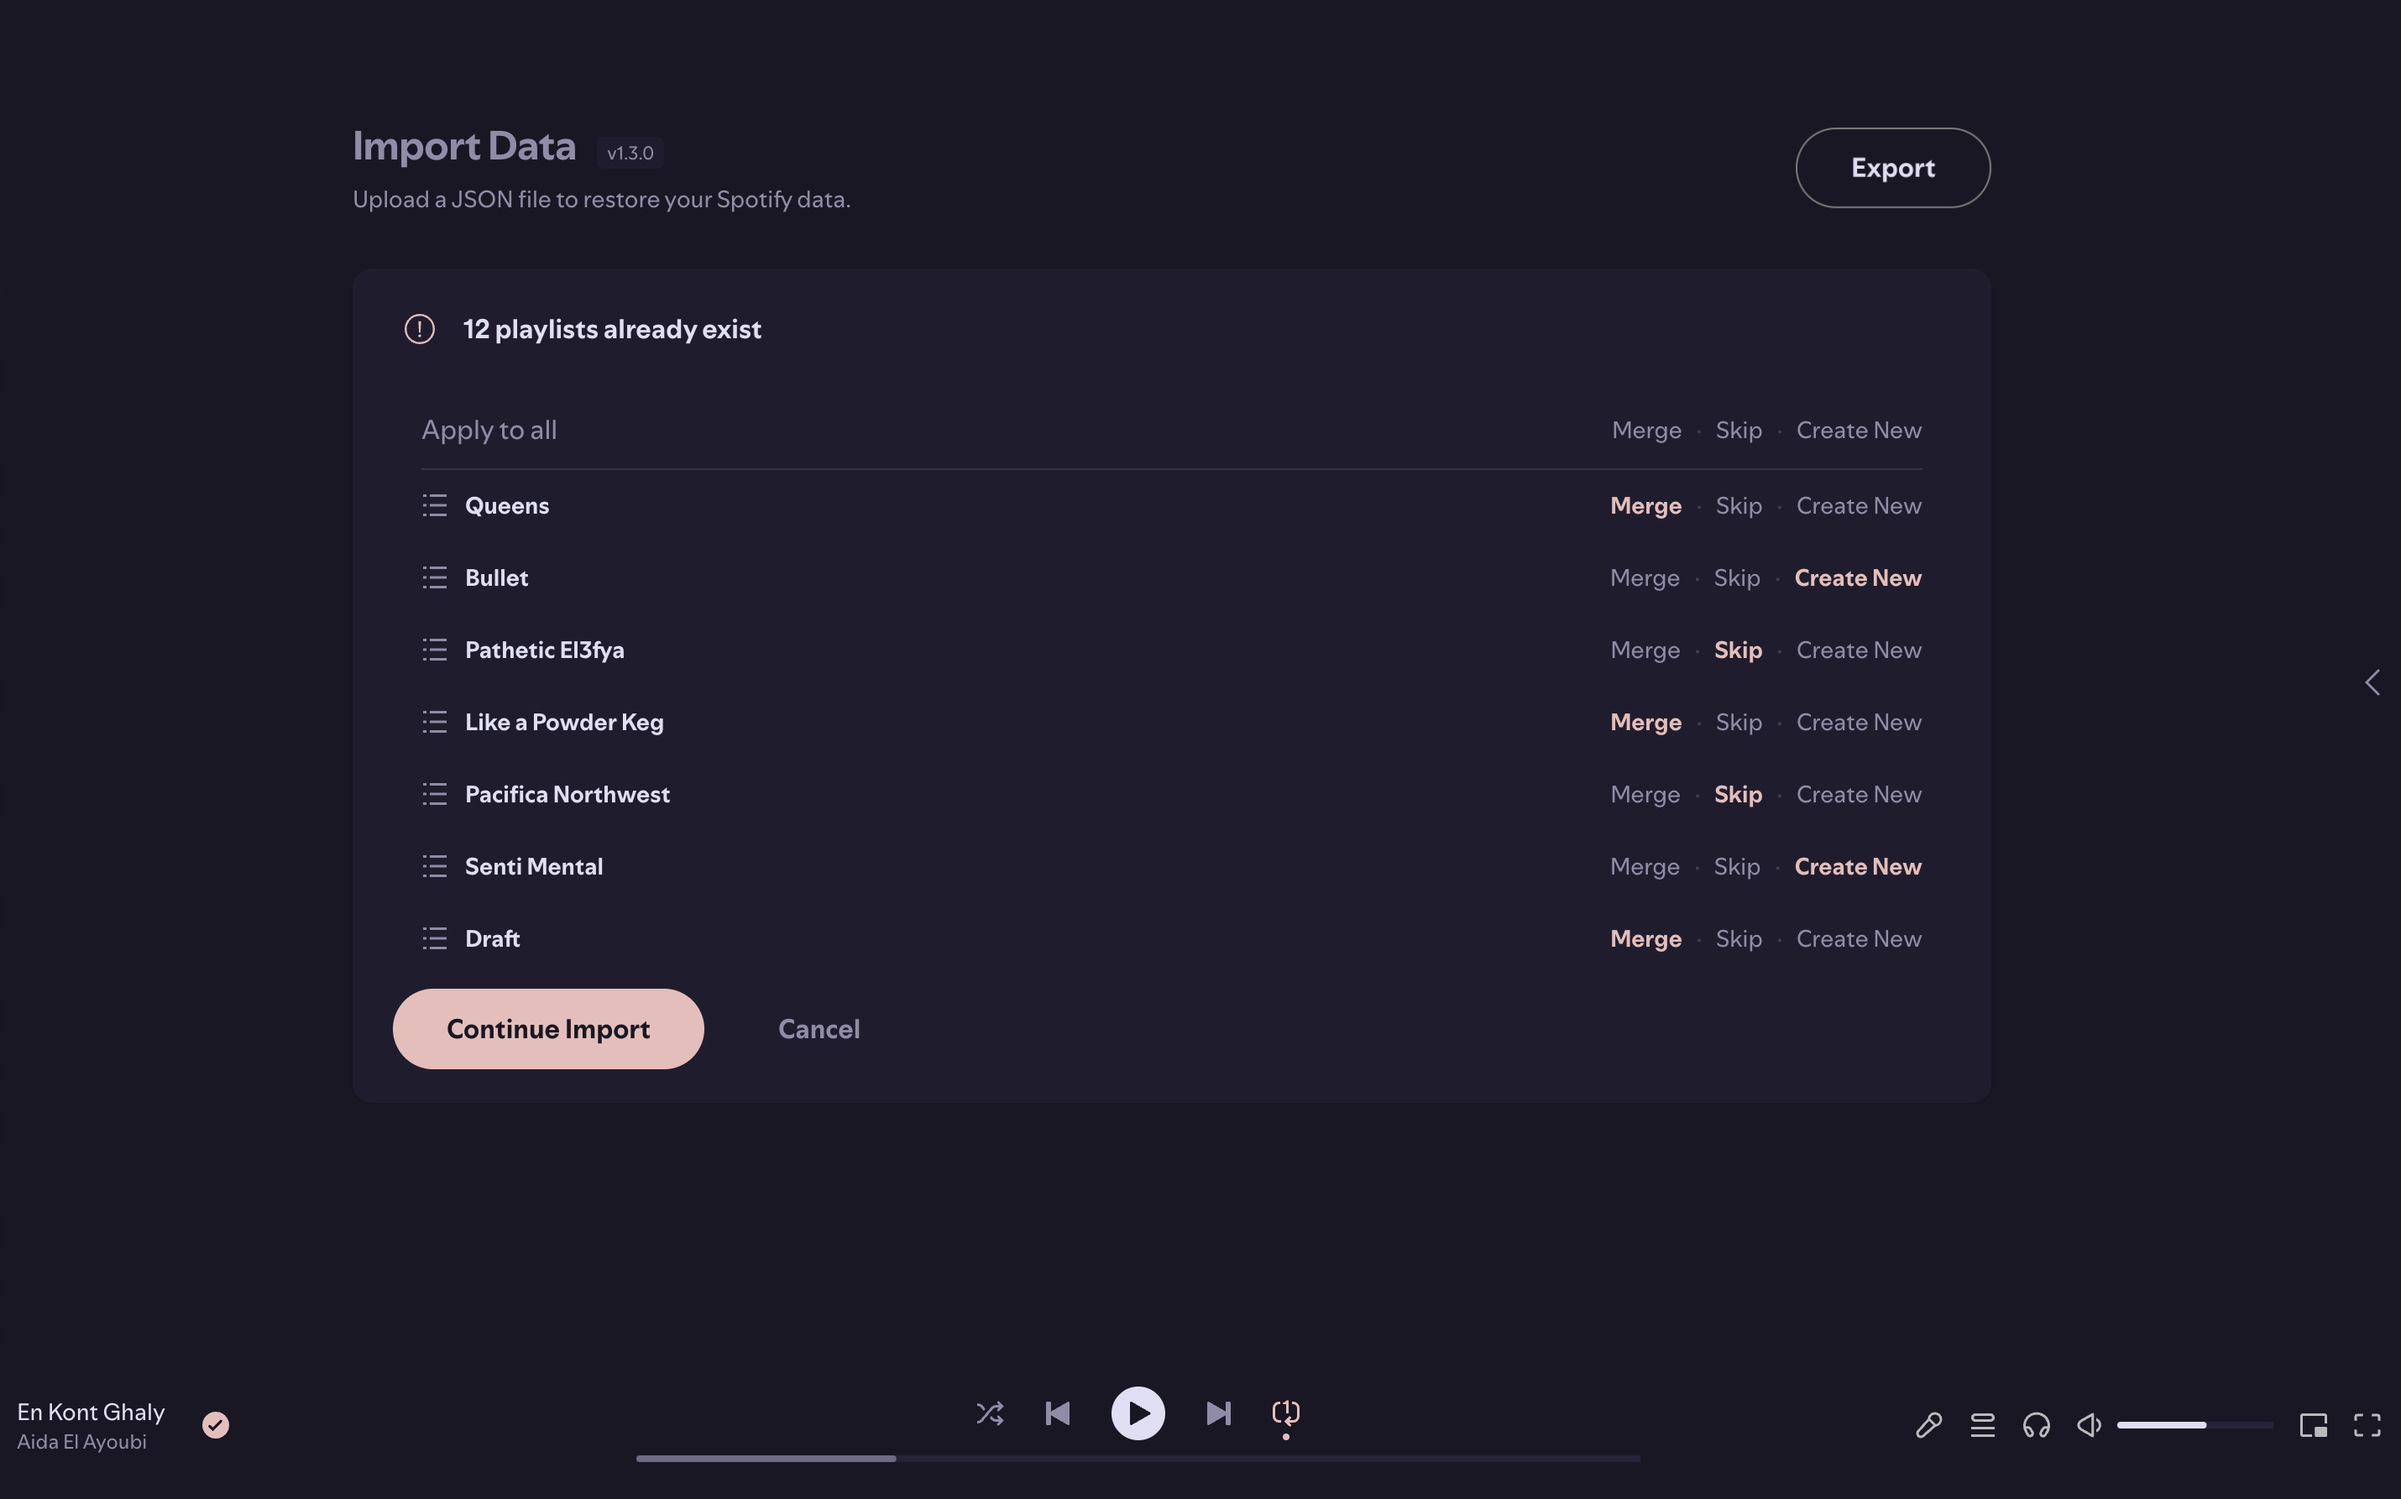
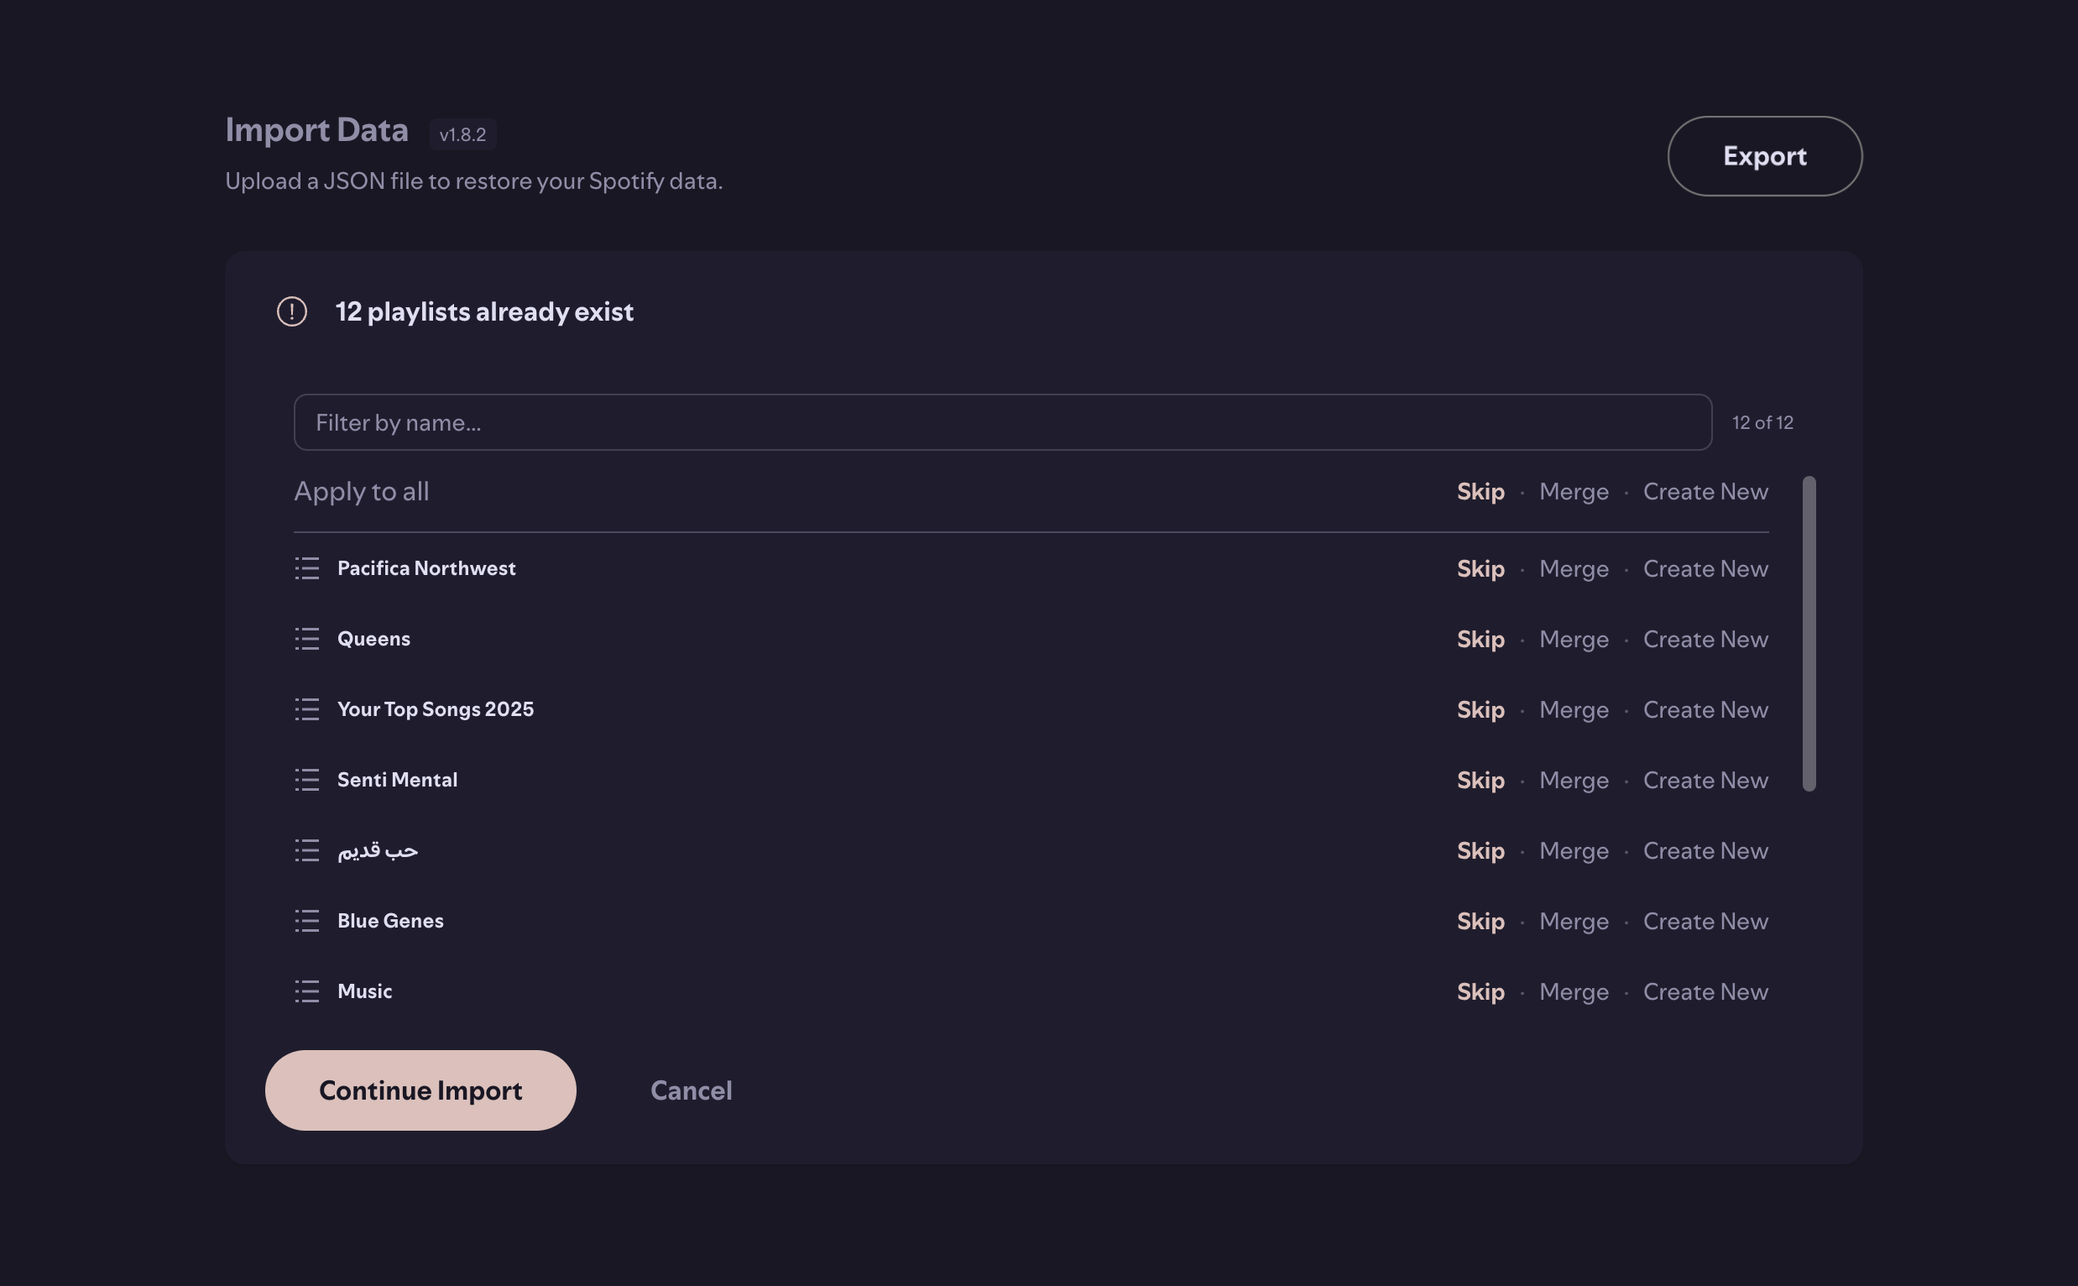
docs: rewrite and update root and data-porter READMEs and previews

diff --git a/README.md b/README.md
@@ -1,24 +1,15 @@
-# Spicetify Apps
+<h3 align="center">Spicetify Apps</h3>
+<p align="center">
+  Custom apps for <a href="https://spicetify.app">Spicetify</a>, built with React, TypeScript, and Tailwind CSS.
+</p>
 
-Custom apps for [Spicetify](https://spicetify.app), built with React, TypeScript, and Tailwind CSS.
+---
 
-| App                                 | Description                                                                                                                                    |
-| ----------------------------------- | ---------------------------------------------------------------------------------------------------------------------------------------------- |
-| [**Data Porter**](apps/data-porter) | Export and import your Spotify library — playlists, liked songs, albums, artists, and podcasts. Supports exporting another user's public data. |
+## Apps
 
-### Install
-
-**Linux / macOS:**
-
-```sh
-curl -fsSL https://raw.githubusercontent.com/Prog-Jacob/spicetify-apps/main/install.sh | bash -s <app-name>
-```
-
-**Windows (PowerShell):**
-
-```ps1
-iex "& { $(iwr -useb https://raw.githubusercontent.com/Prog-Jacob/spicetify-apps/main/install.ps1) } <app-name>"
-```
+|                                                                | App                                 | Description                                                                                           |
+| -------------------------------------------------------------- | ----------------------------------- | ----------------------------------------------------------------------------------------------------- |
+| <img src="apps/data-porter/preview/thumbnail.png" width="120"> | [**Data Porter**](apps/data-porter) | Export and import your Spotify library — playlists, liked songs, albums, artists, podcasts, and more. |
 
 ---
 
@@ -27,19 +18,17 @@ iex "& { $(iwr -useb https://raw.githubusercontent.com/Prog-Jacob/spicetify-apps
 ### Structure
 
 ```
-apps/
-  data-porter/           # Import/export Spotify library data
-packages/
-  shared/                # @shared/* — API wrappers, hooks, i18n, types, utilities
-  ui/                    # @ui/* — shared UI components (shadcn-style)
-scripts/
-  build.mts              # esbuild bundler (auto-discovers apps by src/index.tsx)
-  release.mts            # Interactive release: bump, commit, tag, push
+├── apps/
+│   └── data-porter/        # Import/export Spotify library data
+├── packages/
+│   ├── shared/              # API wrappers, hooks, i18n, types, utilities (@shared/*)
+│   └── ui/                  # Shared UI components, shadcn-style (@ui/*)
+└── scripts/                 # esbuild bundler + changeset-based release tooling
 ```
 
 ### Setup
 
-Requires [Node.js](https://nodejs.org/) >= 18, [pnpm](https://pnpm.io/) >= 9, and [Spicetify](https://spicetify.app/docs/advanced-usage/installation).
+You'll need [Node.js](https://nodejs.org/) >= 18, [pnpm](https://pnpm.io/) >= 9, and [Spicetify](https://spicetify.app/docs/advanced-usage/installation).
 
 ```sh
 git clone https://github.com/Prog-Jacob/spicetify-apps.git
@@ -50,34 +39,36 @@ pnpm dev          # watch-build + spicetify watch
 
 ### Commands
 
-| Command                 | Description                                          |
-| ----------------------- | ---------------------------------------------------- |
-| `pnpm dev`              | Watch-build all apps + spicetify watch (live reload) |
-| `pnpm build`            | Build all apps                                       |
-| `pnpm build:app <name>` | Build a single app                                   |
-| `pnpm typecheck`        | `tsc --noEmit` across all packages                   |
-| `pnpm lint`             | ESLint                                               |
-| `pnpm format`           | Prettier (writes in-place)                           |
-| `pnpm precommit`        | format + lint + typecheck                            |
-| `pnpm release`          | Interactive release: bump, commit, tag, push         |
-| `pnpm symlink`          | Symlink dist/ into Spicetify's CustomApps dir        |
+```sh
+pnpm dev              # watch-build all apps + spicetify watch (live reload)
+pnpm build            # build all apps (or pnpm build:app <name> for one)
+pnpm precommit        # format + lint + typecheck
+pnpm release          # interactive release: bump, commit, tag, push
+```
 
 ### Architecture
 
-This is a **pnpm monorepo** with esbuild bundling each app as an IIFE. React and React DOM are externalized to `Spicetify.React`/`Spicetify.ReactDOM` at runtime.
+This is a **pnpm monorepo**. esbuild bundles each app as an IIFE, with React and React DOM pulled from `Spicetify.React` / `Spicetify.ReactDOM` at runtime (never bundled).
 
-**Path aliases** (resolved at build time):
+Two path aliases are resolved at build time:
 
-- `@shared/*` → `packages/shared/src/*` — API wrappers, hooks, i18n, utilities
-- `@ui/*` → `packages/ui/src/*` — shadcn-style UI components
+- `@shared/*` maps to `packages/shared/src/*`
+- `@ui/*` maps to `packages/ui/src/*`
 
 ### Adding a New App
 
 1. Create `apps/<name>/src/index.tsx` exporting a default `render()` function
-2. Add `package.json` (with `version`) and `tsconfig.json` (extending `../../tsconfig.base.json`)
-3. Optionally add `src/styles/index.css` for Tailwind CSS
-4. `pnpm build` — apps are auto-discovered by `src/index.tsx`
+2. Add a `package.json` with a `version` field and a `tsconfig.json` extending `../../tsconfig.base.json`
+3. Optionally add `src/styles/index.css` if you want Tailwind
+4. Run `pnpm build`. Apps are auto-discovered by their `src/index.tsx`
+
+### Releasing
+
+Releases are handled with [changesets](https://github.com/changesets/changesets).
+
+1. Run `pnpm release <app-name>`. This generates a draft changeset from commits since the last tag, opens your editor to pick the bump type and write release notes, then bumps the version, updates `CHANGELOG.md`, tags, and pushes.
+2. When a tag matching `*-v[0-9]*` is pushed, the [release workflow](.github/workflows/release.yml) builds the app, packages a zip, and creates a GitHub Release.
 
 ---
 
-[Issues](https://github.com/Prog-Jacob/spicetify-apps/issues) · [MIT License](LICENSE)
+[Issues](https://github.com/Prog-Jacob/spicetify-apps/issues) · [Releases](https://github.com/Prog-Jacob/spicetify-apps/releases) · [MIT License](LICENSE)

diff --git a/apps/data-porter/README.md b/apps/data-porter/README.md
@@ -1,56 +1,70 @@
 # Data Porter
 
-A Spicetify custom app to export and import Spotify library data — your own or another user's public data.
+Back up your Spotify library, move it to another account, or just keep a copy for peace of mind.
+
+![Data Porter demo](preview/preview.gif)
 
 ## Features
 
 ### Export
 
-- Pick individual data types — playlists, liked songs, albums, artists, shows/podcasts
-- Select all or deselect all in one click
-- Export another user's public playlists and followed artists by profile URL or user ID
+Pick what you want to include, then download it all as a single JSON file.
 
-![Export page](preview/export.png)
+| Data             | Importable | Notes                                                            |
+| ---------------- | :--------: | ---------------------------------------------------------------- |
+| Playlists        |    Yes     | Includes folder-nested playlists, tracks, episodes, descriptions |
+| Liked Songs      |    Yes     |                                                                  |
+| Albums           |    Yes     |                                                                  |
+| Artists          |    Yes     |                                                                  |
+| Shows / Podcasts |    Yes     |                                                                  |
+| Episodes         |    Yes     | Saved podcast episodes ("Your Episodes")                         |
+| Banned Content   |    Yes     | Blocked tracks and artists                                       |
+| Recently Played  |     --     | ~3 months of listening history (music and podcasts)              |
+| Search History   |     --     | Up to 50 recent searches                                         |
+| Profile          |     --     | Display name, username, country, subscription tier               |
+
+You can also export another user's public playlists and followed artists. Just paste their profile URL or user ID.
 
 ### Import
 
-- Drag and drop, browse for a file, or import from a URL
-- Accepts **Data Porter exports** and **Spotify official data exports**
-- Preview item counts per type before committing
+Drop in a JSON file to restore your data. Works with Data Porter exports and Spotify's official data exports (YourLibrary.json, Playlist1.json).
+
+You'll see a preview of what's inside before anything gets written.
 
 ![Import page](preview/import.png)
 
 ### Conflict Resolution
 
-- Per-playlist choice: skip, merge, or create new
-- Apply a resolution to all conflicts at once
-- Filter conflicts by name
+Already have a playlist with the same name? You get to choose: skip it, merge the tracks, or create a fresh copy. You can also apply one choice to all conflicts at once.
 
 ![Conflict resolution](preview/import-conflict.png)
 
-### Extras
+### More
 
-- Live progress with cancel support
-- Error boundaries to prevent crashes from breaking the entire app
-- Fully keyboard accessible
-- Auto-update notifications with one-click install command
-- English and Arabic; auto-detected from Spotify's language setting
+- English and Arabic, auto-detected from Spotify's language setting
 
----
+## Known Limitations
 
-## Installation (Linux / macOS)
+- **Local tracks are skipped.** Spotify doesn't allow adding local files programmatically.
+- **Some episodes from Spotify's official export can't be matched.** If they're missing URIs, they're skipped.
+- **Max file size is 20 MB.**
+
+## Install
+
+**Linux / macOS:**
 
 ```sh
 curl -fsSL https://raw.githubusercontent.com/Prog-Jacob/spicetify-apps/main/install.sh | bash -s data-porter
 ```
 
-## Installation (Windows, PowerShell)
+**Windows (PowerShell):**
 
 ```ps1
 iex "& { $(iwr -useb https://raw.githubusercontent.com/Prog-Jacob/spicetify-apps/main/install.ps1) } data-porter"
 ```
 
-## Manual Installation
+<details>
+<summary>Manual installation</summary>
 
 Download the zip from the [latest release](https://github.com/Prog-Jacob/spicetify-apps/releases?q=data-porter&expanded=true), then place the `data-porter` folder into your Spicetify `CustomApps` directory:
 
@@ -70,15 +84,20 @@ spicetify config custom_apps data-porter
 spicetify apply
 ```
 
-## Uninstallation
+</details>
+
+<details>
+<summary>Uninstall</summary>
 
 ```sh
 spicetify config custom_apps data-porter-
 spicetify apply
 ```
 
-To fully remove, delete the `data-porter` folder from `CustomApps` after running the above.
+Then delete the `data-porter` folder from `CustomApps`.
+
+</details>
 
 ---
 
-If you run into issues, please [open an issue](https://github.com/Prog-Jacob/spicetify-apps/issues) with your Spicetify version and installation method.
+[Report an issue](https://github.com/Prog-Jacob/spicetify-apps/issues) · [Changelog](CHANGELOG.md) · [Latest release](https://github.com/Prog-Jacob/spicetify-apps/releases?q=data-porter&expanded=true)
